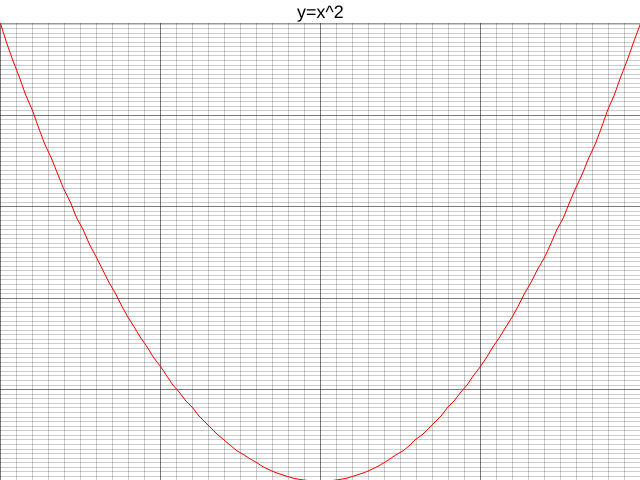
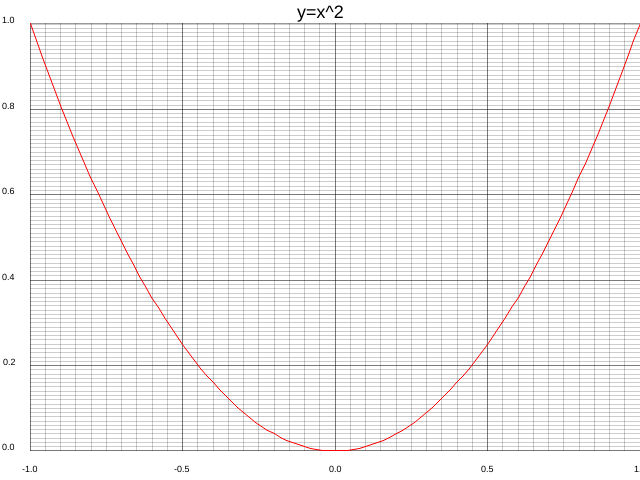
Format

diff --git a/src/chart.rs b/src/chart.rs
@@ -174,7 +174,7 @@ where
     Y: Ranged,
     DB: DrawingBackend,
 {
-    pub fn x_label_offset(&mut self, value:i32) -> &mut Self {
+    pub fn x_label_offset(&mut self, value: i32) -> &mut Self {
         self.x_label_offset = value;
         return self;
     }
@@ -217,19 +217,13 @@ where
     }
 
     /// Set the formatter function for the X label text
-    pub fn x_label_formatter(
-        &mut self,
-        fmt: &'a dyn Fn(&X::ValueType) -> String,
-    ) -> &mut Self {
+    pub fn x_label_formatter(&mut self, fmt: &'a dyn Fn(&X::ValueType) -> String) -> &mut Self {
         self.format_x = fmt;
         return self;
     }
 
     /// Set the formatter function for the Y label text
-    pub fn y_label_formatter(
-        &mut self,
-        fmt: &'a dyn Fn(&Y::ValueType) -> String,
-    ) -> &mut Self {
+    pub fn y_label_formatter(&mut self, fmt: &'a dyn Fn(&Y::ValueType) -> String) -> &mut Self {
         self.format_y = fmt;
         return self;
     }
@@ -393,7 +387,11 @@ impl<DB: DrawingBackend, X: Ranged, Y: Ranged> ChartContext<DB, RangedCoord<X, Y
                         draw = y_mesh;
                     }
                 };
-                return if draw { l.draw(b, mesh_line_style) } else { Ok(()) };
+                return if draw {
+                    l.draw(b, mesh_line_style)
+                } else {
+                    Ok(())
+                };
             },
             r,
             c,
@@ -404,7 +402,11 @@ impl<DB: DrawingBackend, X: Ranged, Y: Ranged> ChartContext<DB, RangedCoord<X, Y
         if let Some(ref xl) = self.x_label_area {
             for (p, t) in x_labels {
                 let (w, _) = label_style.font.box_size(&t).unwrap_or((0, 0));
-                xl.draw_text(&t, label_style, (p - x0 - w as i32 / 2 + x_label_offset, 15))?;
+                xl.draw_text(
+                    &t,
+                    label_style,
+                    (p - x0 - w as i32 / 2 + x_label_offset, 15),
+                )?;
             }
         }
 

diff --git a/src/lib.rs b/src/lib.rs
@@ -15,16 +15,16 @@
 Plotters is a flexible drawing library for data visualization written in pure Rust.
 
 - Why plotting in Rust?
-Although rendering a figure doesn't requires too many computation power in most of the case, 
+Although rendering a figure doesn't requires too many computation power in most of the case,
 and programming language such as Python and Javascript is used for visualization purpose.
 Sometimes we need to make a figure based on huge amount of data, for example, rendering some
 human gene data may requires to downsampling trillions data points, which isn't even doable
-with many high-level programming language. In this case, Rust is a perfect candidate for rendering 
-figures, since it runs very fast while having high-level abstraction abilities. 
+with many high-level programming language. In this case, Rust is a perfect candidate for rendering
+figures, since it runs very fast while having high-level abstraction abilities.
 
 - What type of figure is supported?
-Currently, we support line series, point series and candlestick series. 
-And the library is designed to be able to render multiple figure into a single image. 
+Currently, we support line series, point series and candlestick series.
+And the library is designed to be able to render multiple figure into a single image.
 But Plotter is aimed to be a platform that is fully extendable to supporting any other types of figure.
 
 
@@ -303,5 +303,6 @@ pub mod prelude {
     /// The type used to returns a drawing operation that can be failed
     /// - `T`: The return type
     /// - `D`: The drawing backend type
-    pub type DrawResult<T, D:DrawingBackend>=Result<T, crate::drawing::DrawingAreaErrorKind<D::ErrorType>>;
+    pub type DrawResult<T, D: DrawingBackend> =
+        Result<T, crate::drawing::DrawingAreaErrorKind<D::ErrorType>>;
 }

diff --git a/examples/histogram.rs b/examples/histogram.rs
@@ -12,9 +12,10 @@ fn main() -> Result<(), Box<dyn std::error::Error>> {
         .caption("Histogram Test", &font)
         .build_ranged::<RangedCoordu32, RangedCoordu32, _, _>(0..10, 0..10);
 
-    chart.configure_mesh()
+    chart
+        .configure_mesh()
         .disable_x_mesh()
-        .line_style_1(&Into::into(&RGBColor(255,255,255).mix(0.3)))
+        .line_style_1(&Into::into(&RGBColor(255, 255, 255).mix(0.3)))
         .x_label_offset(30)
         .draw()?;
 

diff --git a/examples/quick_start.rs b/examples/quick_start.rs
@@ -7,6 +7,8 @@ fn main() -> Result<(), Box<dyn std::error::Error>> {
     root.fill(&RGBColor(255, 255, 255))?;
     let mut chart = ChartBuilder::on(&root)
         .caption("y=x^2", &font)
+        .set_x_label_size(30)
+        .set_y_label_size(30)
         .build_ranged::<RangedCoordf32, RangedCoordf32, _, _>(-1f32..1f32, 0f32..1f32);
 
     chart.configure_mesh().draw()?;

diff --git a/src/coord/mod.rs b/src/coord/mod.rs
@@ -1,4 +1,4 @@
-/*! 
+/*!
   The abstraction of the coordinate system
 */
 use crate::drawing::backend::BackendCoord;
